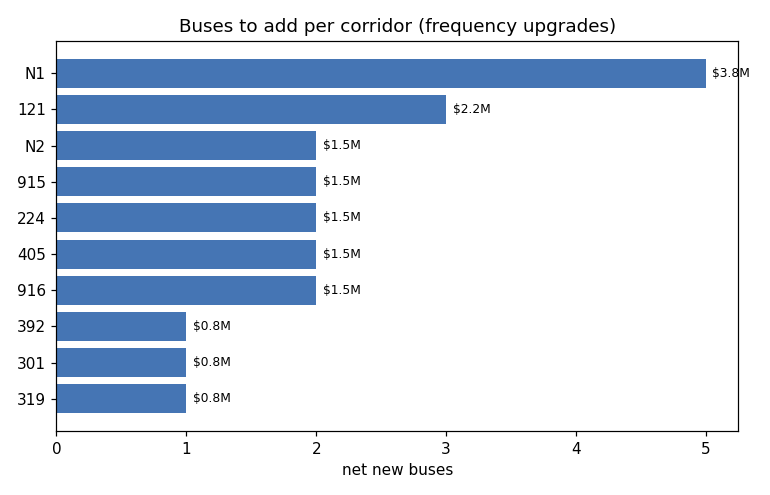
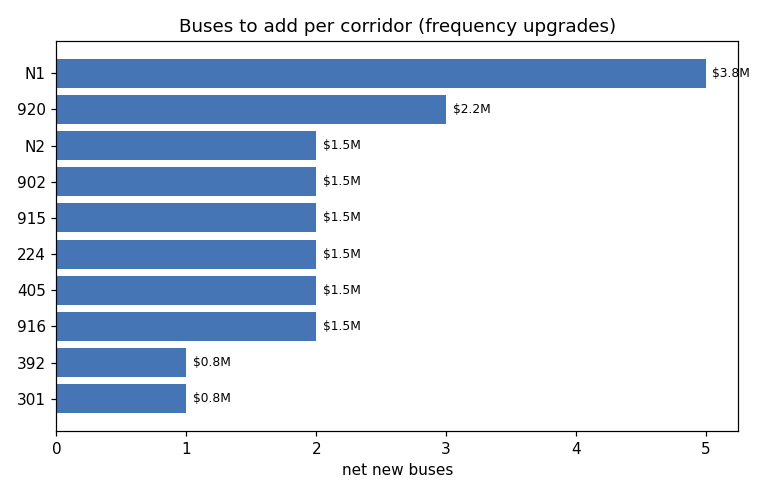
Remove last hard-coded route IDs; add trip_id normalization to RT join
- optimizer: 'Frequent Candidate' promotion is now data-driven (arterial stop
  density OR already-tight headway via frequent_promote_headway_min) instead of
  the hard-coded rid in [121,319,410] list that would rot on renumbering
- pipeline: normalize_trip_id() applied to both sides of the RT<->schedule join
  (trim + optional DRT_TRIPID_STRIP_RE suffix strip) so feeds that differ only by
  whitespace/suffix still match; join-collapse warning retained
- test: lock in data-driven promotion (no route-number list consulted)
- regenerated scorecard/plan/visuals

Note: DST noon-12h anchor and the join-collapse guard were already fixed in 5a39761.

diff --git a/drt_pipeline.py b/drt_pipeline.py
@@ -109,6 +109,24 @@ def colab_setup():
 # HELPERS — t_to_sec, haversine_km, route_family, current_weekday_services are
 # imported from drt_config (single source of truth). See imports at the top.
 # ================================================================================
+import re as _re
+
+# Optional regex (set DRT_TRIPID_STRIP_RE) whose match is stripped from the END
+# of a trip_id before joining RT actuals to the static schedule. Lets you align
+# feeds where RT appends a run/version suffix without code changes.
+_TRIPID_STRIP_RE = os.environ.get("DRT_TRIPID_STRIP_RE")
+
+
+def normalize_trip_id(tid):
+    """Normalise a trip_id for the RT<->schedule join: trim whitespace and,
+    if DRT_TRIPID_STRIP_RE is set, strip a trailing run/version suffix."""
+    if tid is None or (isinstance(tid, float) and math.isnan(tid)):
+        return tid
+    s = str(tid).strip()
+    if _TRIPID_STRIP_RE:
+        s = _re.sub(_TRIPID_STRIP_RE + r"$", "", s)
+    return s
+
 
 # ================================================================================
 # STEP 1 — Extract / download the static GTFS
@@ -475,14 +493,23 @@ def build_features(date_str: str) -> int:
         print(f"no actuals on {date_str}")
         return 0
 
+    # Normalise trip_ids on BOTH sides before the join. Real GTFS-RT feeds often
+    # send a trip_id that differs from the static one only by whitespace, case,
+    # or a trailing run/version suffix (e.g. "..._Timetable_-_2026-04"). Matching
+    # raw can silently collapse the join. The normaliser is overridable via the
+    # DRT_TRIPID_STRIP_RE env var (a regex whose match is stripped from the tail).
+    sched = sched.copy(); actuals = actuals.copy()
+    sched["_tid"] = sched["trip_id"].map(normalize_trip_id)
+    actuals["_tid"] = actuals["trip_id"].map(normalize_trip_id)
+
     joined = sched.merge(
-        actuals[["trip_id", "stop_id", "stop_sequence", "actual_arr_unix", "vehicle_id"]],
-        on=["trip_id", "stop_id", "stop_sequence"], how="inner",
+        actuals[["_tid", "stop_id", "stop_sequence", "actual_arr_unix", "vehicle_id"]],
+        on=["_tid", "stop_id", "stop_sequence"], how="inner",
     )
 
-    # Guard the fragile exact-key join: warn if it collapsed (RT trip_ids not
-    # matching the static feed, or current_stop_sequence missing/misaligned is
-    # common in real feeds). A near-empty join is a red flag, not a clean run.
+    # Guard the fragile join: warn if it collapsed (trip_ids not aligning, or
+    # current_stop_sequence missing/misaligned is common in real feeds). A
+    # near-empty join is a red flag, not a clean run.
     match_rate = len(joined) / max(1, len(actuals))
     if joined.empty or match_rate < 0.05:
         print(f"WARNING {date_str}: RT<->schedule join matched only {len(joined)} of "

diff --git a/test_drt.py b/test_drt.py
@@ -131,6 +131,27 @@ class TestOptimizerMath(unittest.TestCase):
         self.assertEqual(cfg.annualized_bus_capital(),
                          cfg.COST["bus_capital"] / cfg.COST["bus_life_years"])
 
+    def _bcard(self, rid, stops_per_km, med_hw):
+        sc = pd.DataFrame([{
+            "route_id": rid, "is_pulse": False, "weekday_trips": 120,
+            "avg_speed_kmh": 27, "avg_distance_km": 12, "avg_n_stops": 30,
+            "stops_per_km": stops_per_km, "median_headway_min": med_hw,
+            "peak_headway_min": med_hw, "p90_headway_min": med_hw + 5,
+            "headway_cov": 0.2, "peak_trip_share": 0.4,
+            "weekday_service_hours": 70, "bucket": "B", "diagnosis": "x",
+        }])
+        eq = pd.DataFrame([{"route_id": rid, "unique_coverage": 0.1,
+                            "coverage_tier": "REDUNDANT (safe to restructure)"}])
+        return ro.optimize(scorecard=sc, equity_df=eq).iloc[0]
+
+    def test_promotion_is_data_driven_not_hardcoded(self):
+        # Arterial density -> Frequent Candidate; low density + 30-min -> Base.
+        # No route-number list is consulted (the old code hard-coded 121/319/410).
+        self.assertEqual(self._bcard("777", 3.0, 30)["category"], "Frequent Candidate")
+        self.assertEqual(self._bcard("778", 1.5, 30)["category"], "Base Coverage / Commuter")
+        # already-tight headway promotes even at low density
+        self.assertEqual(self._bcard("779", 1.5, 18)["category"], "Frequent Candidate")
+
     def test_on_demand_frees_but_not_all_buses(self):
         # End-to-end on a synthetic scorecard: a marginal route converts to
         # on-demand, which must (a) still need >=1 vehicle and (b) cost > 0.

diff --git a/route_optimizer.py b/route_optimizer.py
@@ -99,9 +99,17 @@ def optimize(scorecard: pd.DataFrame | None = None,
         active_vehicles = peak_vehicles(current_rt_cycle, peak_hw) or 1
 
         # ---- target service category ----
+        # "Frequent candidate" = a bucket-B route worth upgrading to 15-min. The
+        # rule is data-driven (no hard-coded route numbers, which rot when DRT
+        # renumbers): qualify on arterial stop density OR an already-tight headway
+        # (a route running <= frequent_promote_headway already shows the demand to
+        # justify a 15-min standard).
+        promote_hw = cfg.STANDARDS["frequent_promote_headway_min"]
+        already_frequent = (not np.isnan(med_hw)) and med_hw <= promote_hw
+        arterial = stops_per_km >= cfg.STANDARDS["stops_per_km_arterial"]
         if bucket == "A":
             target_hw, category = cfg.STANDARDS["pulse_min_freq"], "Frequent Backbone"
-        elif bucket == "B" and (stops_per_km >= 2.5 or rid in ["121", "319", "410"]):
+        elif bucket == "B" and (arterial or already_frequent):
             target_hw, category = cfg.STANDARDS["frequent_target"], "Frequent Candidate"
         elif bucket == "D" or (bucket == "C" and trips <= 30):
             target_hw, category = 0.0, "Marginal (On-Demand candidate)"

diff --git a/drt_config.py b/drt_config.py
@@ -36,6 +36,7 @@ STANDARDS = {
     "pulse_min_freq": 15,          # PULSE minimum headway (min)
     "base_min_freq": 30,           # Base minimum headway
     "frequent_target": 15,         # Frequent Network target headway
+    "frequent_promote_headway_min": 20,  # a B route already <=20min is a 15-min candidate
     "speed_min": 22,               # km/h; below this flags route deviation
     "cov_frequent": 0.21,          # TCQSM LOS A regularity
     "cov_base": 0.30,              # acceptable regularity for base

diff --git a/drt/map_data/DRT_PLAN.md b/drt/map_data/DRT_PLAN.md
@@ -13,24 +13,24 @@ _Generated 2026-05-31 from the live Durham GTFS feed._
 - Diagnostic buckets: A=4, B=24, C=1, D=9
 
 ## 3. Fleet & budget plan
-- Peak fleet: **147 → 147** buses (+28 spares @ 20%)
+- Peak fleet: **147 → 158** buses (+31 spares @ 20%)
 - Buses freed by on-demand conversion: **4**
-- Buses needed for frequency upgrades: **23**
-- **Net new buses to purchase: 19**
-- Capital cost (net new fleet): **$14,250,000**
-- Annual operating cost change: **$10,888,447/yr**
+- Buses needed for frequency upgrades: **25**
+- **Net new buses to purchase: 21**
+- Capital cost (net new fleet): **$15,750,000**
+- Annual operating cost change: **$11,887,429/yr**
 
 ### Top corridors requiring investment
 | Route | Category | Headway now→target | New buses | Capital | Annualized |
 |---|---|---|---|---|---|
 | N1 | Base Coverage / Commuter | —→30 min | 5 | $3,750,000 | $312,500 |
-| 121 | Frequent Candidate | 30→15 min | 3 | $2,250,000 | $1,661,970 |
+| 920 | Frequent Candidate | 20→15 min | 3 | $2,250,000 | $1,608,249 |
 | 916 | Frequent Backbone | 20→15 min | 2 | $1,500,000 | $1,346,867 |
 | 405 | Frequent Candidate | 30→15 min | 2 | $1,500,000 | $1,325,150 |
 | 224 | Frequent Candidate | 30→15 min | 2 | $1,500,000 | $1,318,292 |
 | 915 | Frequent Backbone | 20→15 min | 2 | $1,500,000 | $1,277,144 |
+| 902 | Frequent Candidate | 20→15 min | 2 | $1,500,000 | $1,177,703 |
 | N2 | Base Coverage / Commuter | —→30 min | 2 | $1,500,000 | $125,000 |
-| 410 | Frequent Candidate | 30→15 min | 1 | $750,000 | $1,255,792 |
 
 ## 4. Equity guard
 The optimizer flagged marginal routes for on-demand conversion, but **5 routes were protected** as lifeline coverage (the only service within a 400 m walk for most of their stops). Deleting these would create coverage holes, not just frequency cuts.